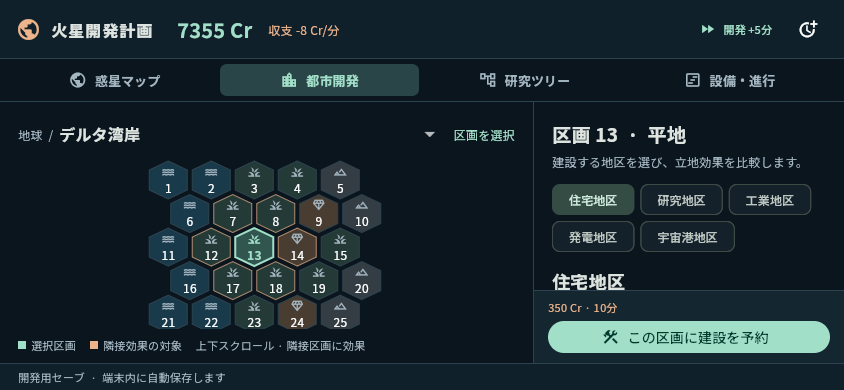
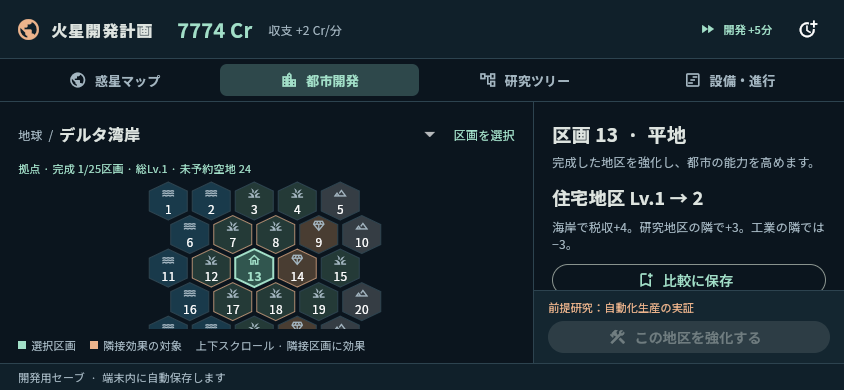
📚doc: 都市投資と序盤の調整結果・操作画面を記録する

diff --git a/docs/investment-pacing.md b/docs/investment-pacing.md
@@ -1,0 +1,125 @@
+# 都市投資と序盤のペース
+
+2026-10-13 / content `district-3`。この記録は `district-2` の調整値を更新する。
+
+## 確認済みの方向と実装範囲
+
+- 1ルートの能動的な操作・計画は**累計約20時間**を目標にする。以前の50時間案を更新。
+- オフライン待機はこの20時間に含めない。初回EDまで**現実4〜6週間**の目標は維持する。
+- 最初の建設は約5分。最初の1時間は配置・受注・研究・輸送を並行して遊び、徐々に長い予約を任せる設計にする。
+- メニュー・設定・オープニング・チュートリアルは後回し。今回はゲームの投資判断を改善する。
+- 全球環境とEDは未実装。加速した試走の日数や操作数を、実際に20時間楽しめる証明として扱わない。
+
+企画書第4章の「1日1〜2回・各数分」は古い調整仮定。今回の能動プレイ目標を優先する。
+20時間を28〜42日へ均等に割れば1日約29〜43分だが、毎日その時間の操作を要求する仕様ではない。
+最初は連続した1時間、その後は短い確認と、都市や輸送網を組み替える長めの計画を組み合わせる。
+
+## 実装した投資の違い（すべて仮値）
+
+| 投資 | 費用 | 基礎工期 | 土地 |
+| --- | --- | --- | --- |
+| 新設 Lv.1 | 基本費用 ×（100 + 同都市の完成区画数×12）% | 同じ整備率を適用 | 1区画追加 |
+| Lv.1 → 2 | 基本費用の175% | Lv.1の80% | 追加なし |
+| Lv.2 → 3 | 基本費用の250% | Lv.1の120% | 追加なし |
+
+新都市の最初の区画だけ、高原科学都市は1,200 Cr・15分、エリシウムは1,600 Cr・45分、
+ヘラスは2,400 Cr・90分を加算する。最初の地球都市とアルカディアには加算しない。
+工期の合計を建設設備の効率で短縮する。費用の端数は切り上げ。
+
+増強は隣接を育てた区画と土地を活かし、共用工場の占有時間を抑える。
+新区画は小さい投資で能力を増やせるが、密集都市では整備費が増す。
+新都市は最初の開拓負担があり、複数地区まで育てれば安く展開できる。
+隣接効果の式と研究段階による効率上限30/45/60%は維持した。上限到達後は実際の追加効果が0になる場合も見せる。
+
+見積もりは**着工時点の完成区画・効率**で確定する。予約順や先行工事で未着手の金額・工期は変わる。
+すでに着工・支払い済みの作業は再請求せず、従来の残り時間を維持する。
+新都市の複数予約は同じ建設設備で順に処理するため、初回開拓費を二重に払わない。
+
+## 序盤から放置への移行（現在値）
+
+| 工程 | 基礎工期 | 費用 |
+| --- | --- | --- |
+| 住宅 / 発電 | 各5分 | 350 / 650 Cr |
+| 都市基盤研究 | 8分 | 700 Cr |
+| 研究 / 工業地区 | 10 / 12分 | 1,200 / 1,500 Cr |
+| 初期火星居住地区 | 10分 | 700 Cr + 到着キット1基 |
+| 再使用輸送研究 | 30分 | 6,000 Cr |
+| 自動化生産研究 | 90分 | 20,000 Cr |
+| 閉鎖循環 / 軌道補給研究 | 3 / 4時間 | 40,000 / 120,000 Cr |
+| 現地資源 / 都市連携 / 広域産業 / 地域居住網 | 12 / 24 / 24 / 48時間 | 600,000 / 1,200,000 / 900,000 / 1,800,000 Cr |
+
+住宅で税収を育て、受注を建設やキット製造へ差し替える。その間に研究所や宇宙港も使い、
+初居住後は工業の実証・次の研究を予約して離席できる。期間だけでなく、費用・実証条件でも進行が決まる。
+短い作業を毎回手動で繰り返すことは強制せず、有限/無期限反復・分岐待ちの既存ルールを維持する。
+
+## 操作と発展の見せ方
+
+1. 都市開発で候補を選び「比較に保存」。完成区画を選べば増強候補を保存できる。
+2. 別の区画・都市を選んで「候補を比較」。本体・都市整備・初回開拓の費用と工期、純収支、土地、実際の効率差を並べる。
+3. 閉じて配置を予約し、「設備・進行」で受注との順番を決める。
+
+比較は予約や時間を進めない。候補は画面をまたいで保持する一時メモで、アプリ再起動後の保存はしない。
+見積もりは最新状態から再計算し、予約済み・条件不足・保存後の完成を区別する。最大Lvの架空の増強は保存できない。
+
+都市の完成区画と総Lvを表示し、候補地→拠点（総Lv1）→成長都市（8）→中核都市（20）を目印にする。
+これは見た目と達成感の目印で、追加報酬や倍率ではない。球体上の建物・ドームも従来どおり総Lvに応じて増える。
+
+## 再現する検証
+
+```sh
+mise exec -- bash tools/check.sh
+mise exec -- dart run tools/verify_progression.dart
+mise exec -- dart run tools/verify_investments.dart
+```
+
+前者の試走は初期900 Crから公開操作だけで進める。後者の比較は同じ条件の候補を測るため、
+研究・地区を明示的に準備した比較用状態を使う。通常のプレイ経路と混同しない。
+旧 `district-2` エンジン（`ac8e9f9`）で作った実保存を `test/fixtures/district_v2.json` に残し、
+ネイティブとWebの保存方式で、旧支払済み増強と新価格の未着手予約を継続する検証を追加した。
+
+## 改善ループと残る検証
+
+- 旧増強の費用・工期4倍/12倍では新設に比べた利点が弱かったため、費用と設備占有時間を別の倍率にした。
+- 単発だけの比較では新都市の開拓負担が目立つため、3地区以上の投資も比較するハーネスを追加した。
+- 序盤の数時間研究を8分からに変更。初回60分の公開経路で、完成・資金・判断可能な時点を記録する。
+- 独立レビューで最大Lvから存在しないLv4を比較できた表示を見つけ、保存・比較と架空の見積もりを止めた。
+
+### 比較試走の結果
+
+同じ6区画の都市で、海岸住宅の増強は613 Cr・3.77分・純収入+17、海岸新区画は602 Cr・8.11分・+14。
+単純な安値か、短時間で既存の隣接を伸ばすかが異なる。高原研究地区1か所は既存都市2,064 Cr・16.23分に対し、
+新都市2,400 Cr・23.58分。しかし3地区まとめると既存6,624 Cr・52.08分、新都市5,232 Cr・45.85分となる。
+18区画の密集都市では3地区11,808 Cr・研究効率+22%・純収支±0、新都市5,232 Cr・+18%・純収支−12。
+新都市の安さに対し、集積した都市には隣接による利点が残る。これらは比較用状態での例で、全配置の最適性は保証しない。
+
+初期900 Crからの60分経路は2通り試した。研究地区を先にする経路は初輸送34.71分、初居住44.71分。
+キットを先行して工場・宇宙港・火星を並行利用する経路は初輸送21分、初居住35分。
+代わりに研究地区の完成は26.4分から29分へ遅くなる。初居住までの最大判断間隔は14.4分から8分に短縮した。
+改善経路の60分時点は6地区、24人、3,037 Cr、10の判断時点、未完了の研究予約が残る。
+後半の工業建設・資金待ちには最大21.46分の空白があり、**1時間すべてを能動的に遊べると実証したわけではない**。
+比較・先行予約を考える時間も含めた実際の手触りは、次の試遊で継続して評価する。
+
+全10研究と火星2都市への公開操作経路は223.427時間（約9.31日）、48人、キット3、1,275,251 Crで到達。
+これは現在の試作範囲の経過時間で、全球EDや最適経路の所要時間ではない。
+時間の一括/分割、時計前後退、資金/資材/分岐待ち、反復終了、保存回復、旧支払保持を含め、
+`bash tools/check.sh`は依存方向・整形・解析と**127テスト**を通過した。
+
+Web releaseとChromeの実操作で都市の発展、候補保存、都市をまたぐ比較、844×390のスクロールと閉じる操作、
+オフライン再読込、複数タブのロックを確認した。検証用Nodeは手動終了なしで終了コード0。
+実画面を見て、小さい横画面では費用内訳より総額・占有時間・土地・効果を先に表示するよう再調整した。
+
+iPhone 17 Pro / iOS 26.1 Simulatorの `flutter drive` も成功（操作テスト41秒）。
+FlutterSceneの球体表示、地球/火星の建設、実際の隣接効果、別都市比較、保存再開を確認。
+比較中は時刻を含むゲーム状態が変わらず、閉じた後も予約操作へ戻れる。一時保存先を使い、利用者の保存は変更しない。
+今回のSimulator起動は34秒で完了。実機iPhone、Android、Safari、数週間の実時間運用は未検証。
+最初の描画で最大787msのパイプライン準備ログがあり、初回表示の事前準備は継続課題。
+
+画面記録: [PCの比較](screenshots/investment-web-comparison.png) / [小さい横画面](screenshots/investment-web-small-comparison.png) /
+[iOSの比較](screenshots/investment-ios-comparison.png) / [iOSの内訳](screenshots/investment-ios-comparison-details.png)。
+
+20時間の能動プレイと4〜6週間のEDは未検証。次は序盤後半の判断密度と、研究系統ごとの都市の違いを試す。
+メニューやオープニングは引き続き後回しにする。
+
+公開先は [通常版main](https://yakitama5.github.io/mars-terraforming/) と
+[時間送り付きdevelop](https://yakitama5.github.io/mars-terraforming/develop/)。
+配信された両SHAとActions実行番号は [deployment.json](https://yakitama5.github.io/mars-terraforming/deployment.json) へ自動記録する。

diff --git a/README.md b/README.md
@@ -3,6 +3,7 @@
 地球の都市・産業で資金を作り、共用設備を研究・製造・輸送へ配分して、
 火星の複数都市へ進むFlutter / FlutterSceneの戦略試作です。
 球体の惑星、各都市25区画の配置・隣接効果、3系統の研究を操作できます。
+住宅は基本5分から。既存地区の増強と別都市への展開を「比較に保存」で比べられます。
 iOS先行・Android後発、横画面・日本語・完全オフラインの方針を維持しています。
 PCで操作を試せるWeb版も用意しました。UIと数値は仮仕様です。
 
@@ -27,7 +28,7 @@ mise exec -- flutter run --dart-define=DEV_TOOLS=true -d <iOS-device-id>
 `DEV_TOOLS=true` で専用の保存枠と「+5分」「+1時間」「+1日」を使えます。
 通常プレイではdart-defineを省きます。時間送りは通常セーブへ影響しません。
 
-1. 「惑星マップ」で都市を選び、「都市開発」で区画の地形・隣接効果と見積もりを比較します。
+1. 「惑星マップ」で都市を選び、「都市開発」で候補を「比較に保存」。別の区画/都市の「候補を比較」で費用・工期・土地・効果を見比べます。
 2. 「設備・進行 → 製造・受注」で資金を作り、「研究ツリー」で生命維持を実証します。
 3. キット製造と火星輸送を予約。工場の無期限受注より製造を前へ動かすと、支払済みの1回の後に着手します。
 4. 初輸送後、火星の居住方式を選び、アルカディアの区画へ居住地区を建設します。
@@ -58,6 +59,7 @@ Web試遊は既定で開発用の別セーブと時間送りを使います。
 
 ## 資料と検証
 
+- [都市投資・序盤5分建設と最新の検証](docs/investment-pacing.md)
 - [GitHub Pagesとmain/developの運用](docs/github-pages.md)
 - [都市・惑星の戦略試作と改善記録](docs/strategy-prototype.md)
 - [企画書](docs/game-design.md)

diff --git a/docs/development.md b/docs/development.md
@@ -1,7 +1,8 @@
 # 開発・検証の引き継ぎ
 
-更新: 2026-10-13。球体の惑星・複数都市・六角区画・隣接効果・研究ツリーへ拡張。
-最新の改善経緯、仮値、再現可能な長期経路と検証は [戦略試作の記録](strategy-prototype.md) を参照。
+更新: 2026-10-13。最新はcontent district-3、都市の増強/展開比較と序盤5分建設。
+最新の数値・20時間の方針・検証は [都市投資と序盤のペース](investment-pacing.md)、
+球体・六角区画・研究ツリーの初期改善は [戦略試作の記録](strategy-prototype.md) を参照。
 企画書は原本を保持。仮仕様は `decisions.md` に分けた。
 
 ## 作業環境と採用版
@@ -49,7 +50,7 @@ mise exec -- flutter run -d <iOS-device-id> --dart-define=DEV_TOOLS=true
 ```
 
 1. 「惑星マップ」で地球・火星と都市を選ぶ。球体を回転・拡大できる。
-2. 「都市開発」で25区画から配置先を選び、地形・隣接地区・費用・工期・効果を比べて予約する。
+2. 「都市開発」で区画を選び「比較に保存」。別の区画/都市で「候補を比較」すると増強と展開の費用・工期・隣接効果を比べられる。
 3. 「研究ツリー」の全体表示で3分野のつながりを見て研究を予約する。研究だけでなく実証条件も必要。
 4. 「設備・進行 → 製造・受注／輸送・居住」で受注・製造・輸送を予約する。
 5. 「稼働状況」で次の予約を↑↓変更。支払済みの現在の1回は継続する。

diff --git a/docs/strategy-prototype.md b/docs/strategy-prototype.md
@@ -3,6 +3,9 @@
 2026-10-13。今回の依頼をもとに、区画配置・隣接効果・球体の惑星・研究ツリーを一緒に改善する。
 元の企画書を完成UIの仕様として固定せず、ここに試作時の判断と検証を記録する。
 
+**この文書の数値と検証はdistrict-2時点の記録。** 最新の増強/展開の倍率、5分建設、
+能動約20時間の方針、district-3の保存互換と検証は [都市投資と序盤のペース](investment-pacing.md) を参照。
+
 ## 今回の確定した方向
 
 - 地球の財政・産業を火星開発へつなぐ。外部受注と自前の建設・製造・輸送が同じ設備を使う。
